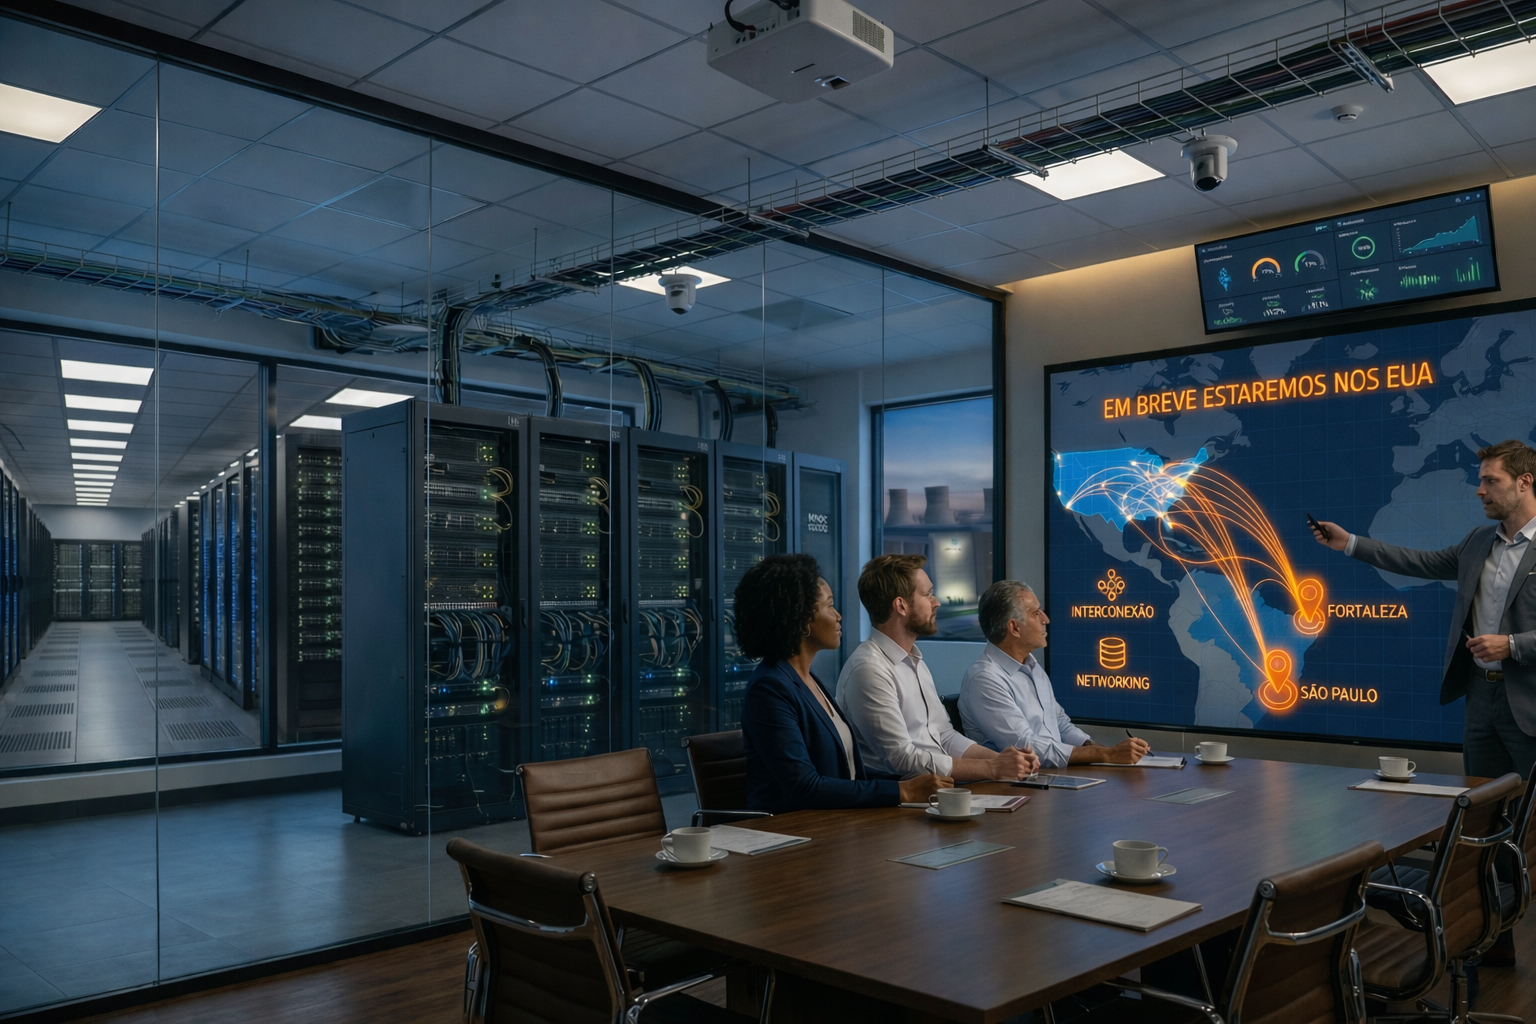
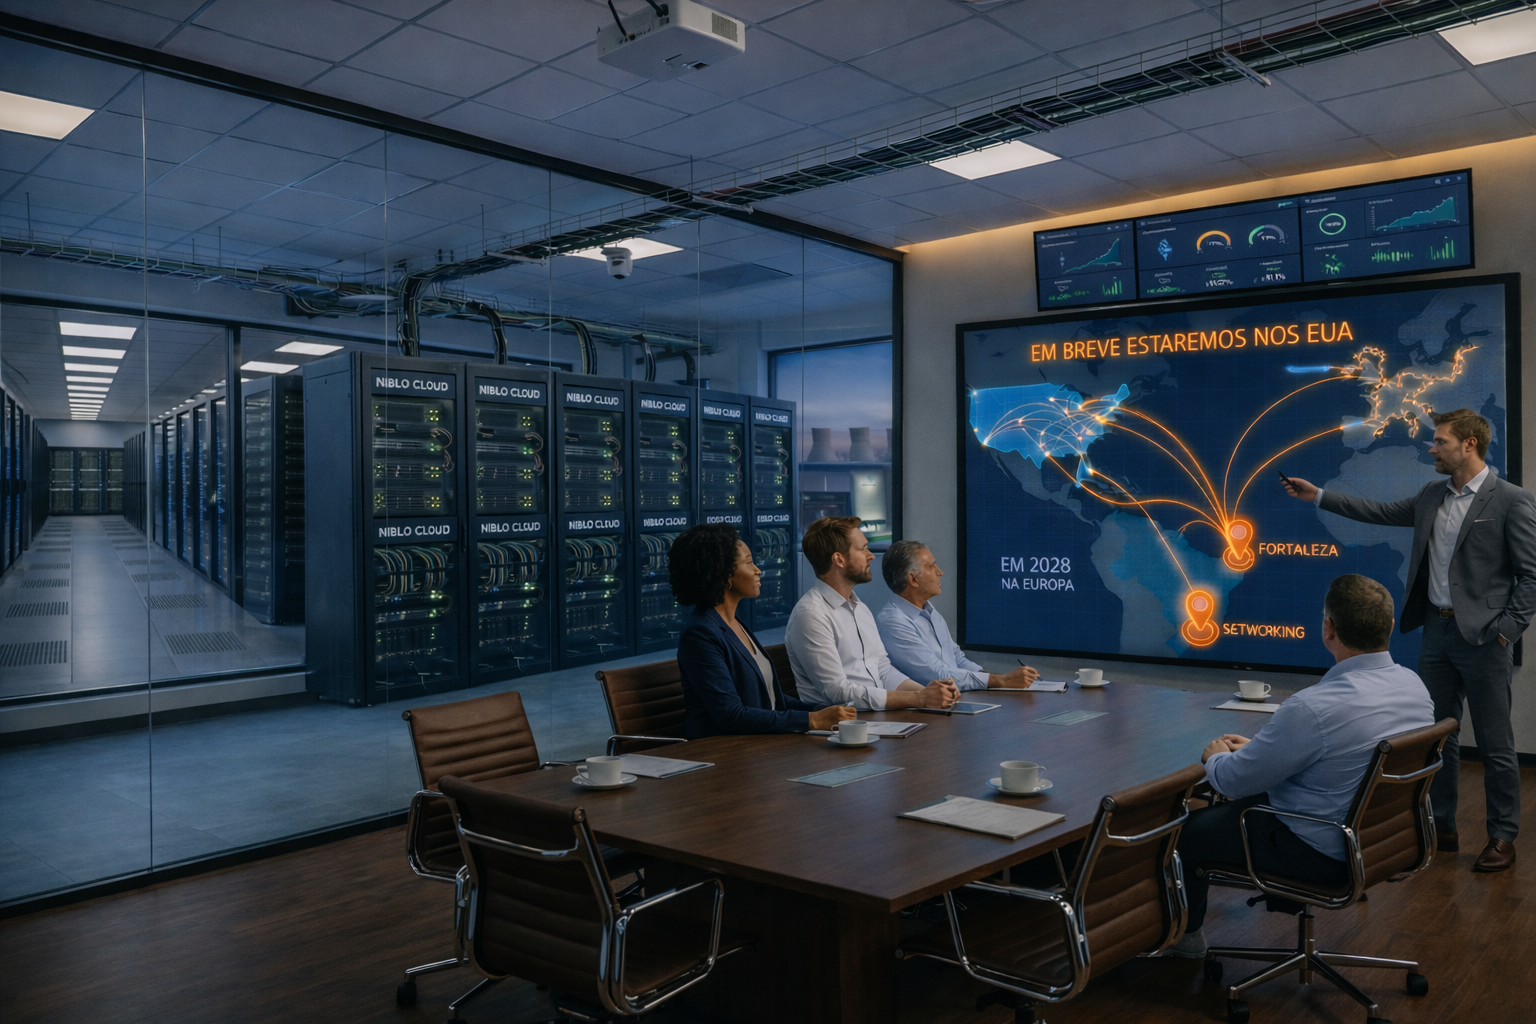
atualizando a seção de mapa

diff --git a/sobre.html b/sobre.html
@@ -101,9 +101,9 @@
       <span class="section-tag">Cobertura</span>
       <h2 class="section-title">Onde atendemos</h2>
       <p style="color:var(--muted);font-size:1rem;line-height:1.8;font-weight:300;">
-        Nossa infraestrutura já está em <strong>São Paulo e Fortaleza</strong>, garantindo performance, segurança e disponibilidade para operações críticas.
-Agora, damos mais um passo em nossa evolução: <strong>em breve estaremos também nos Estados Unidos</strong>, ampliando nossa presença e aproximando ainda mais nossos serviços de clientes e parceiros internacionais.
-Mais presença, mais conectividade, mais possibilidades para o seu negócio. 
+        Nossa infraestrutura já está em <strong>São Paulo e Fortaleza</strong>, garantindo performance, segurança e disponibilidade para operações críticas.<br><br>
+Agora, damos mais um passo em nossa evolução: <strong>em breve estaremos também nos Estados Unidos</strong>, ampliando nossa presença e aproximando ainda mais nossos serviços de clientes e parceiros internacionais. Mais presença, mais conectividade, mais possibilidades para o seu negócio.<br><br>
+E os nossos planos não param por aí, em 2028 desembarcaremos na <strong>Europa</strong>. Um novo horizonte de conectividade para romper fronteiras e impulsionar o crescimento da sua empresa em escala mundial.
       </p>
     </div>
     <div class="reveal">
@@ -116,7 +116,7 @@ Mais presença, mais conectividade, mais possibilidades para o seu negócio.
   <a href="index.html" class="logo">
     <img src="images/logo1.png" alt="Niblo Cloud" style="height:80px;width:auto;filter:brightness(0) invert(1);opacity:0.85;margin:0;">
   </a>
-  <p>© 2026 Niblo Cloud. Todos os direitos reservados.</p>
+  <p>© 2025 Niblo Cloud. Todos os direitos reservados.</p>
   <div class="footer-links">
     <a href="solucoes.html">Soluções</a>
     <a href="sobre.html">Sobre</a>
